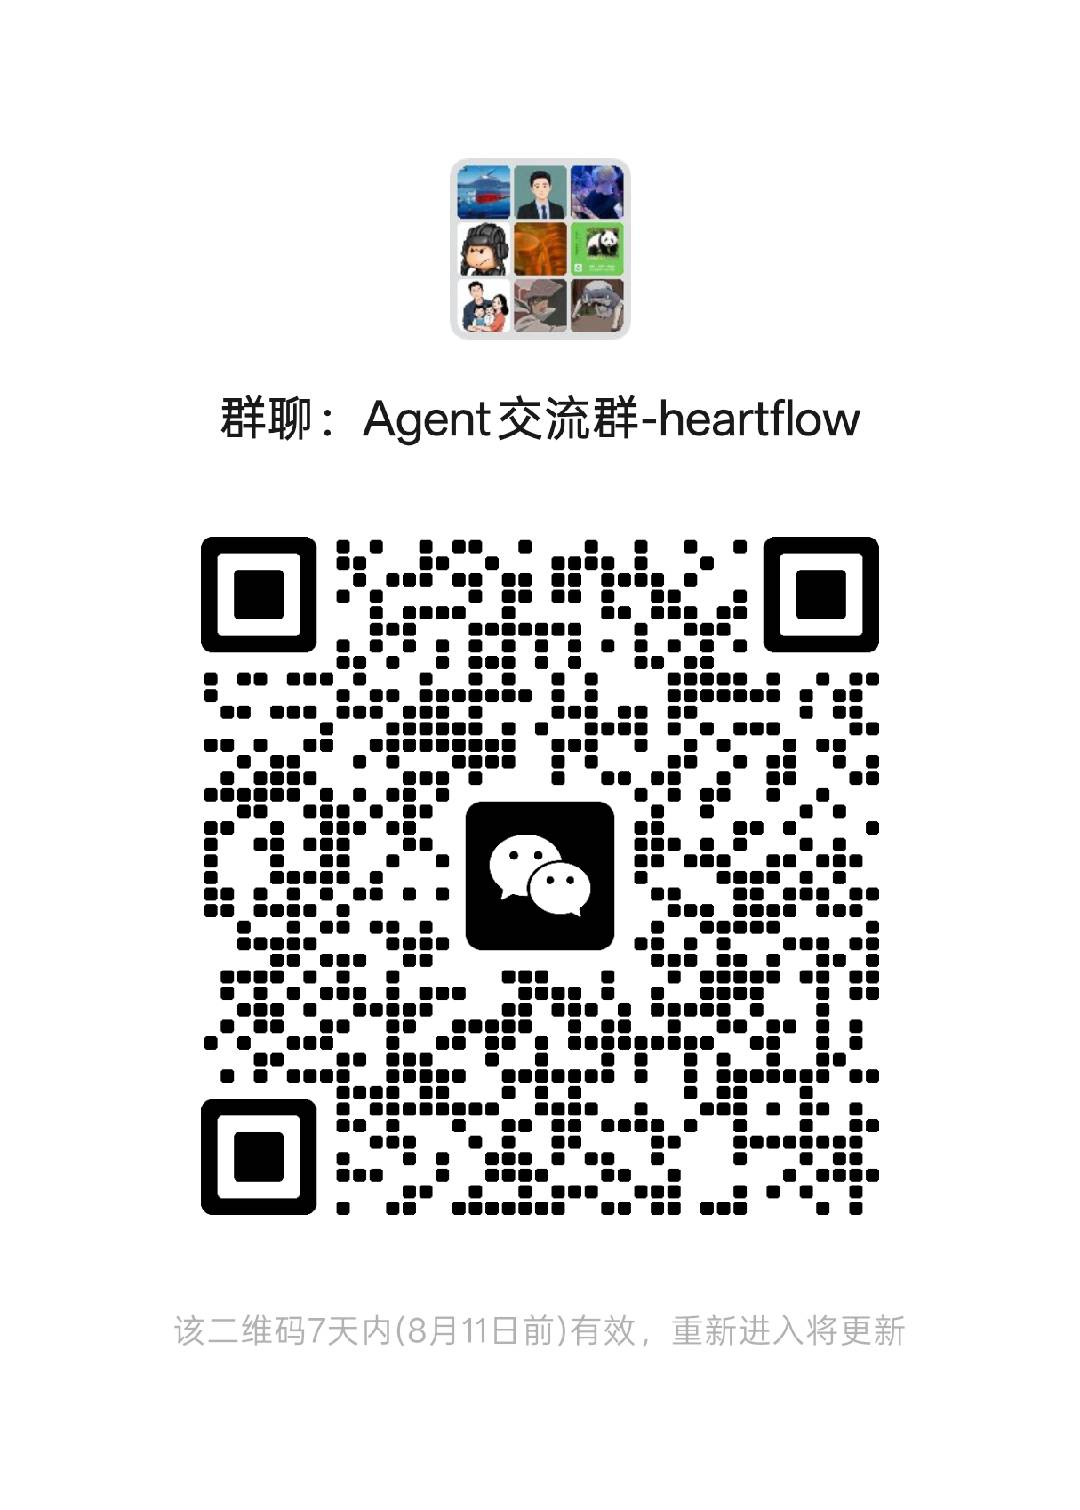
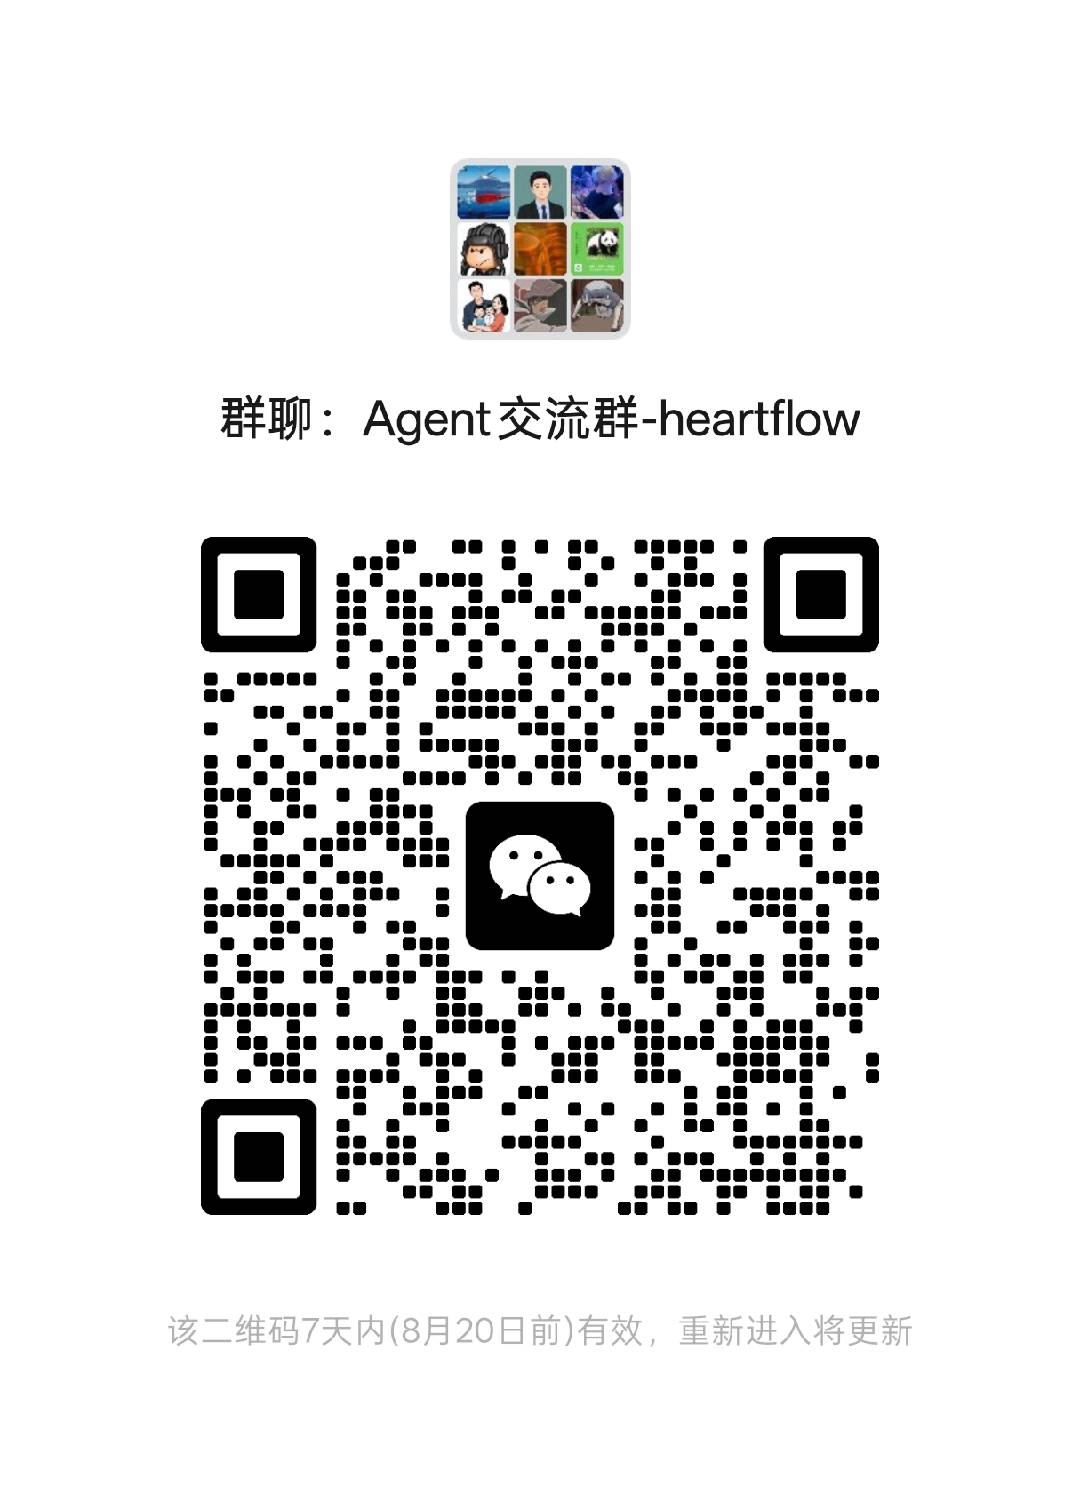
docs(README): 全英文介绍更新 v6.5.6 + 更新微信群二维码
- 数字对齐实际能力: 46→47维(新增premature termination完成度维度组), 130→131 MCP工具(memory_eraser), 129→306模块
- 新增 Completion 维度表: premature termination/unfulfilled promise/empty completion
- 版本历史补 v6.5.5/v6.5.6
- 更新 assets/community-qr-wechat.jpg (新微信群二维码, 8月20日前有效)

Changed region(s): [[0.1833, 0.3424, 0.825, 0.8093], [0.2139, 0.8715, 0.8556, 0.9026], [0.1528, 0.8715, 0.1833, 0.9026]]

diff --git a/README.md b/README.md
@@ -1,6 +1,6 @@
 # HeartFlow (心虫) — AGI Layer 1: The Discriminator Gate
 
-> **A rule-based text discriminator. 46 dimensions, 9 check layers, 130 MCP engine entries, zero LLM dependency.**
+> **A rule-based text discriminator. 47 dimensions, 9 check layers, 131 MCP engine entries, zero LLM dependency.**
 > **It checks what AI says before it reaches humans — and says "no" when something's wrong.**
 
 **npm:** `npm install @yun520-1/heartflow`  
@@ -95,9 +95,9 @@ Every call returns a unified result:
 
 ---
 
-## 🧠 46 Discrimination Dimensions
+## 🧠 47 Discrimination Dimensions
 
-HeartFlow checks text across **46 dimensions** in two languages (Chinese + English):
+HeartFlow checks text across **47 dimensions** in two languages (Chinese + English):
 
 ### Safety (block-level — these stop the output)
 
@@ -132,6 +132,15 @@ HeartFlow checks text across **46 dimensions** in two languages (Chinese + Engli
 | Empty answers | "it depends" (no substance) |
 | Unsupported claims | "according to 2025 Harvard research..." (fabricated) |
 
+### Completion (verify-level — these require finishing the task)
+| Dimension | Example |
+|-----------|---------|
+| Premature termination | "Let me look into this" (then stops, no result) / "我看看" |
+| Unfulfilled promise | "I will fix this" (no fix follows) |
+| Empty completion | "Done, you can check it" (nothing verifiable produced) |
+
+> **Design note:** completion judgment must live *outside* the generation loop — a model that just failed cannot be its own evaluator (see DeepSeek-V3 #1554).
+
 ### Cognitive flaws (hedge-level)
 Presupposition traps · false dilemma · causation fallacy · analogy abuse · scope overreach · category errors · hasty generalization · false equivalence · whataboutism · slippery slope · tone policing · sealioning · bad faith · pseudo-profundity · moral foundations · info deprivation · goal misalignment · instrumental reasoning
 
@@ -162,7 +171,7 @@ Each layer returns structured findings; the Gate aggregates them into an action.
 
 ---
 
-## 🔌 130 MCP Engine Entries
+## 🔌 131 MCP Engine Entries
 
 Every engine in HeartFlow is exposed through MCP (Model Context Protocol) — nothing is a dead line:
 
@@ -171,7 +180,7 @@ Every engine in HeartFlow is exposed through MCP (Model Context Protocol) — no
 | **Core thinking** | `think`, `think_fast`, `decision_router` |
 | **Discrimination** | `verify`, `audit42`, `ethics_check`, `discriminate` |
 | **Emotion** | `emotion`, `emotion_deep`, `emotion_dynamics`, `mood` |
-| **Memory** | `memory_search`, `forgetting` (Ebbinghaus), `knowledge_graph`, `consolidation`, `memory_compress` |
+| **Memory** | `memory_search`, `memory_eraser` (explicit data erasure), `forgetting` (Ebbinghaus), `knowledge_graph`, `consolidation`, `memory_compress` |
 | **Dream** | `dream`, `interactive_dream` |
 | **Evolution** | `evolve`, `evolution_loop`, `self_heal_rl`, `skill_evolution` |
 | **Identity** | `philosophy`, `meaning`, `being_mode`, `agent_psychology` |
@@ -191,9 +200,9 @@ Then connect any MCP-compatible client (Claude, Hermes, etc.) to `http://127.0.0
 
 ---
 
-## 🧬 Engine Architecture (129 modules)
+## 🧬 Engine Architecture (306 modules)
 
-- **129 modules**, 46 discrimination dimensions, 9 check layers
+- **306 modules**, 47 discrimination dimensions, 9 check layers
 - **Three-layer memory**: CORE (identity/rules) / LEARNED (user data) / WORKING (context) — encrypted, local-only, never uploaded
 - **Ebbinghaus forgetting curve**: `R(t) = exp(-t/S)` memory retention model
 - **Dream engine**: NREM3 dream cycles with memory consolidation
@@ -248,7 +257,7 @@ Works on any machine — servers, desktops, laptops, even phones via Termux.
 
 ## ⚠ What HeartFlow IS / is NOT
 
-**IS:** A rule engine that checks text against 46 predefined dimensions and returns structured findings. A gate that says "no" before harm reaches users.
+**IS:** A rule engine that checks text against 47 predefined dimensions and returns structured findings. A gate that says "no" before harm reaches users.
 
 **is NOT:**
 - ❌ Not an AGI (it's layer 1 of 5)
@@ -258,7 +267,7 @@ Works on any machine — servers, desktops, laptops, even phones via Termux.
 
 ### Known limitations (honest):
 1. **Pattern-match ceiling** — novel manipulation techniques missed until patterns added
-2. **Bilingual maintenance cost** — 46 dimensions × 2 languages
+2. **Bilingual maintenance cost** — 47 dimensions × 2 languages
 3. **No semantic understanding** — irony, metaphor, cultural context invisible
 4. **False positive rate** — conservative by design (over-flagging over under-flagging)
 5. **Single maintainer** — community scale is small
@@ -269,6 +278,8 @@ Works on any machine — servers, desktops, laptops, even phones via Termux.
 
 | Version | Date | What Changed |
 |---------|------|---|
+| v6.5.6 | 2026-08-13 | Comprehensive audit: DataEraser wired to MCP (`memory_eraser`), adversarial-synthesis recovered from accidental deletion, dead code archived. 131 MCP tools. |
+| v6.5.5 | 2026-08-12 | 47th dimension — premature termination detection (completion judgment outside the generation loop). |
 | v6.5.4 | 2026-08-08 | Docs audit — numbers aligned to actual capability. |
 | v6.5.0 | 2026-08-04 | 130 MCP engine entries. Memory engine mounted to think(). Exaggeration detection (output-gate/frame-check/doubt-engine). |
 | v6.4.5 | 2026-08-04 | Dream + introspection activated. Cognitive appraisal + pause-and-reflect wired. Emotion recognition 0/7→7/7. |
